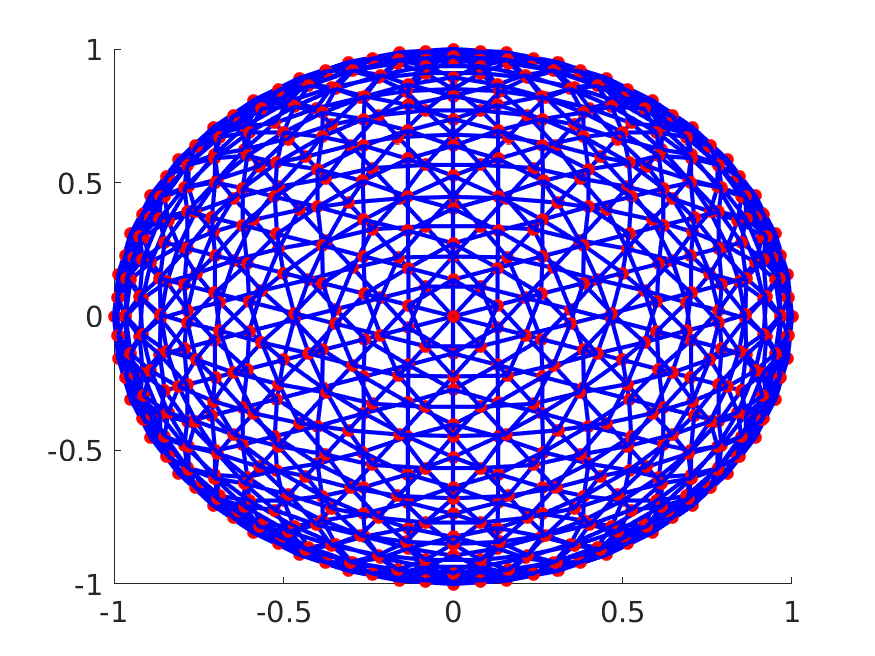
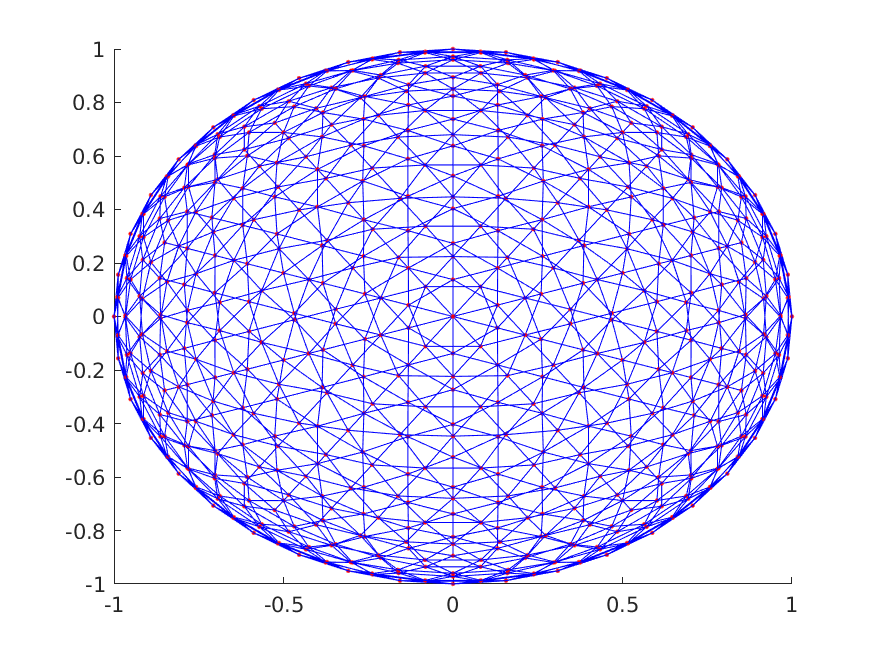
shifted the cpp to long long int

diff --git a/Code/src/grav_cpu.cpp b/Code/src/grav_cpu.cpp
@@ -28,13 +28,12 @@ using namespace std;
 /*Reference: http://www.songho.ca/opengl/gl_sphere.html*/
 float const H_ANG = PI/180*72;
 float const ELE_ANG = atanf(1.0f / 2);	// elevation = 26.565 degree
-unsigned int curr_faces_count;
+intL curr_faces_count;
 
 triangle * faces_copy;
 
 
 /* Decleration of local functions */
-// int partition_sum(void * arr, int low, int high);
 void get_coefficients();
 
 /*******************************************************************************
@@ -205,9 +204,9 @@ void create_icoshpere(){
 	for(unsigned int j=1; j<=max_depth; j++){
 
 		// cout << "Adding to depth: " << j << " Starting with Curr face count: " << curr_faces_count<< endl;
-		unsigned int a = curr_faces_count;
+		intL a = curr_faces_count;
 		// go through every face and divide the face into four equal parts
-		for(unsigned int i=0; i<a; i++){
+		for(intL i=0; i<a; i++){
 			triangle tri_i = faces[i];
 			/* compute 3 new vertices by splitting half on each edge
 	        *         P0
@@ -252,7 +251,7 @@ void export_csv(triangle * f, string filename1, string filename2, bool verbose){
 	ofstream obj_stream;
 	obj_stream.open(filename1);
 	obj_stream << "x, y, z" << endl;
-	for(unsigned int i=0; i< vertices_length; i++){
+	for(intL i=0; i< vertices_length; i++){
 		obj_stream << vertices[i].x << ", " << vertices[i].y << ", " << vertices[i].z << endl;
 	}
 	obj_stream.close();
@@ -260,7 +259,7 @@ void export_csv(triangle * f, string filename1, string filename2, bool verbose){
 	ofstream obj_stream2;
 	obj_stream2.open(filename2);
 	obj_stream2 << "x1, y1, z1, x2, y2, z2" << endl;
-	for(unsigned int i=0; i< curr_faces_count; i++){
+	for(intL i=0; i< curr_faces_count; i++){
 		triangle triangle_tmp = f[i];
 		for(int j=0; j<3;j++)
 			obj_stream2 << 	triangle_tmp.v[j].x << ", " << triangle_tmp.v[j].y << ", " << triangle_tmp.v[j].z << ", " <<
@@ -277,13 +276,13 @@ void fill_vertices(){
 	vertices[0].x = all_vs[0].x;	
 	vertices[0].y = all_vs[0].y;
 	vertices[0].z = all_vs[0].z;
-	unsigned int c_start = 0, c_end = 1;
-	for(unsigned int i=1; i<3*faces_length; i++){
+	intL c_start = 0, c_end = 1;
+	for(intL i=1; i<3*faces_length; i++){
 		float sum_i = all_vs[i].x+all_vs[i].y+all_vs[i].z;
 		float sum_i_1 = all_vs[i-1].x+all_vs[i-1].y+all_vs[i-1].z;
 		if((sum_i - sum_i_1) <= epsilon){
 			is_add = 1;
-			for(unsigned int j=c_start; j<c_end; j++){
+			for(intL j=c_start; j<c_end; j++){
 				float t = 	fabs(vertices[j].x - all_vs[i].x) + fabs(vertices[j].y - all_vs[i].y) +
 						fabs(vertices[j].z - vertices[j].z);
 				if(t <= epsilon){
@@ -305,12 +304,12 @@ void fill_vertices(){
 	memcpy(faces, faces_copy, faces_length*sizeof(triangle));
 }
 
-int partition_sum(void * arr_in, int low, int high){
+intL partition_sum(void * arr_in, intL low, intL high){
 	vertex * arr = (vertex *)arr_in;
     vertex pivot = arr[high]; // pivot
-    int i = (low - 1); // Index of smaller element
+    intL i = (low - 1); // Index of smaller element
   	vertex tmp;
-    for (int j = low; j <= high - 1; j++)
+    for (intL j = low; j <= high - 1; j++)
     {
         // If current element is smaller than the pivot
         float sum_j = arr[j].x+ arr[j].y + arr[j].z;
@@ -329,11 +328,11 @@ int partition_sum(void * arr_in, int low, int high){
     return (i + 1);
 }
 
-void quickSort(void * arr, int low, int high, int partition_fun(void *, int, int)){
+void quickSort(void * arr, intL low, intL high, intL partition_fun(void *, intL, intL)){
 	if(low < high){
 		/* pi is partitioning index, arr[p] is now
 	    at right place */
-	    int pi = partition_fun(arr, low, high);
+	    intL pi = partition_fun(arr, low, high);
 
 	    // Separately sort elements before
 	    // partition and after partition
@@ -348,7 +347,7 @@ void quickSort(void * arr, int low, int high, int partition_fun(void *, int, int
  *
  * Description:     computes (n+m)!/(n-m)!
  *
- * Arguments:       int n, int m- from geoppotential coefficients
+ * Arguments:       intL n, intL m- from geoppotential coefficients
  *
  * Return Values:   float p = (n+m)!/(n-m)!
  *
@@ -359,7 +358,7 @@ void quickSort(void * arr, int low, int high, int partition_fun(void *, int, int
 float facprod(int n, int m){
     float p = 1.0; // initialisation of p
 
-    for (int i = n-m+1; i<=n+m; i++)
+    for (intL i = n-m+1; i<=n+m; i++)
         p = p/i;
 
     return p;
@@ -543,7 +542,7 @@ float spherical_harmonics(vertex R_vec){
 *******************************************************************************/
 
 void get_grav_pot(){
-    for (unsigned int i=0; i<vertices_length; i++){
+    for (intL i=0; i<vertices_length; i++){
         potential[i] = spherical_harmonics(vertices[i]);
     }
 }

diff --git a/Code/src/grav_cpu.hpp b/Code/src/grav_cpu.hpp
@@ -46,16 +46,16 @@ typedef struct triangle triangle;
 
 /**** Variables related to Icosphere ****/
 
-int partition_sum(void * arr, int low, int high);
+intL partition_sum(void * arr, intL low, intL high);
 
 // faces of the icosphere
 GLOBAL triangle * faces;
 GLOBAL triangle faces_init[ICOSPHERE_INIT_FACE_LEN];
-GLOBAL unsigned int faces_length;
+GLOBAL intL faces_length;
 
 // vertices of the icosphere
 GLOBAL vertex * vertices;
-GLOBAL unsigned int vertices_length;
+GLOBAL intL vertices_length;
 
 // The depth of the icosphere
 GLOBAL unsigned int max_depth;
@@ -77,10 +77,10 @@ void init_icosphere();
 
 void create_icoshpere();
 void fill_vertices();
-void quickSort_points(int low, int high);
+void quickSort_points(intL low, intL high);
 void fill_common_theta();
 
-void quickSort(void * arr, int low, int high, int partition_fun(void *, int, int));
+void quickSort(void * arr, intL low, intL high, intL partition_fun(void *, intL, intL));
 
 void export_csv(triangle * f, string filename1, string filename2, bool verbose);
 

diff --git a/Code/utilities/visulaize_icosphere.m b/Code/utilities/visulaize_icosphere.m
@@ -7,8 +7,8 @@ set(0, 'DefaultLineLineWidth', 2);
 
 epsilon = 1e-6;
 %% 
-vertices = readtable('../results/gpu_vertices.csv');  
-% vertices = readtable('../results/cpu_vertices.csv');  
+% vertices = readtable('../results/gpu_vertices.csv');  
+vertices = readtable('../results/cpu_vertices.csv');  
 
 edges = readtable('../results/cpu_edges.csv');
 x = vertices.x;
@@ -17,7 +17,7 @@ z = vertices.z;
 %% plotting vertices
 figure(3);
 hold on;
-plot3(x, y, z, 'r.');
+plot3(x, y, z, 'r*');
 %% plotting edeges
 hold on;
 for i = 1:height(edges)
